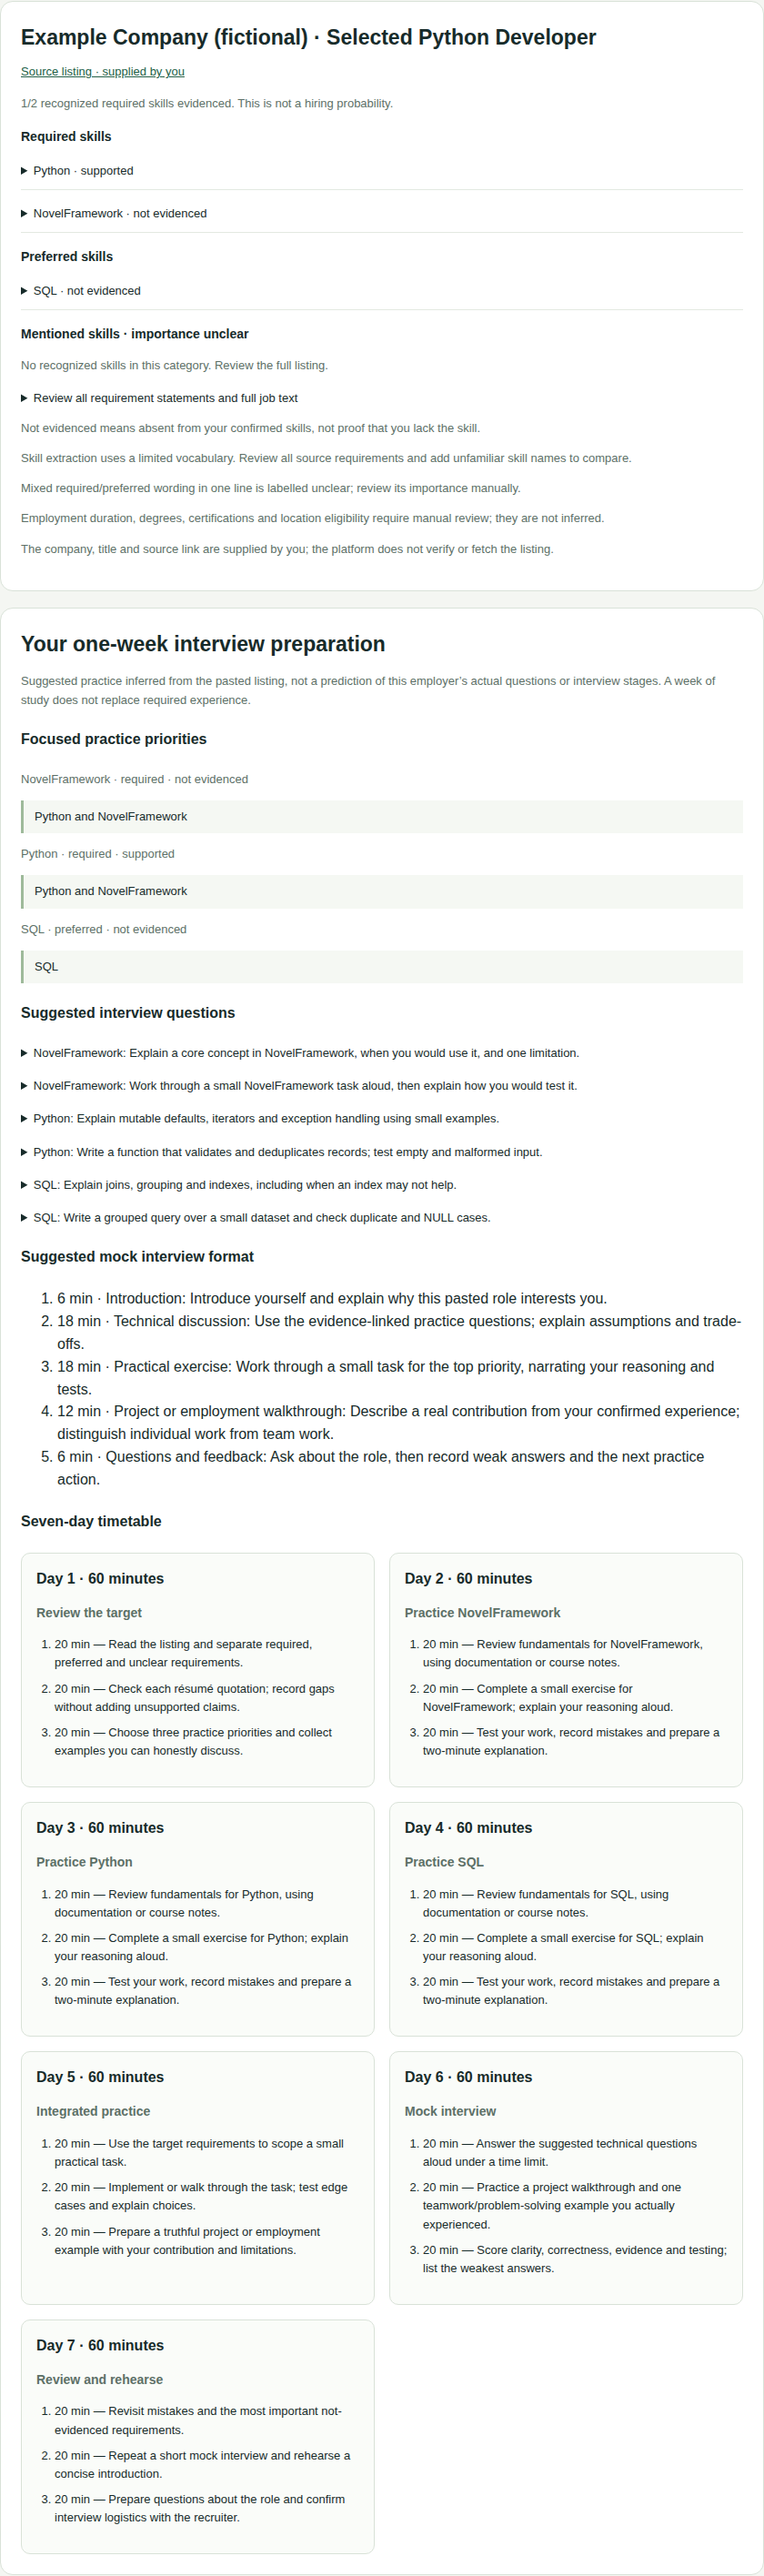
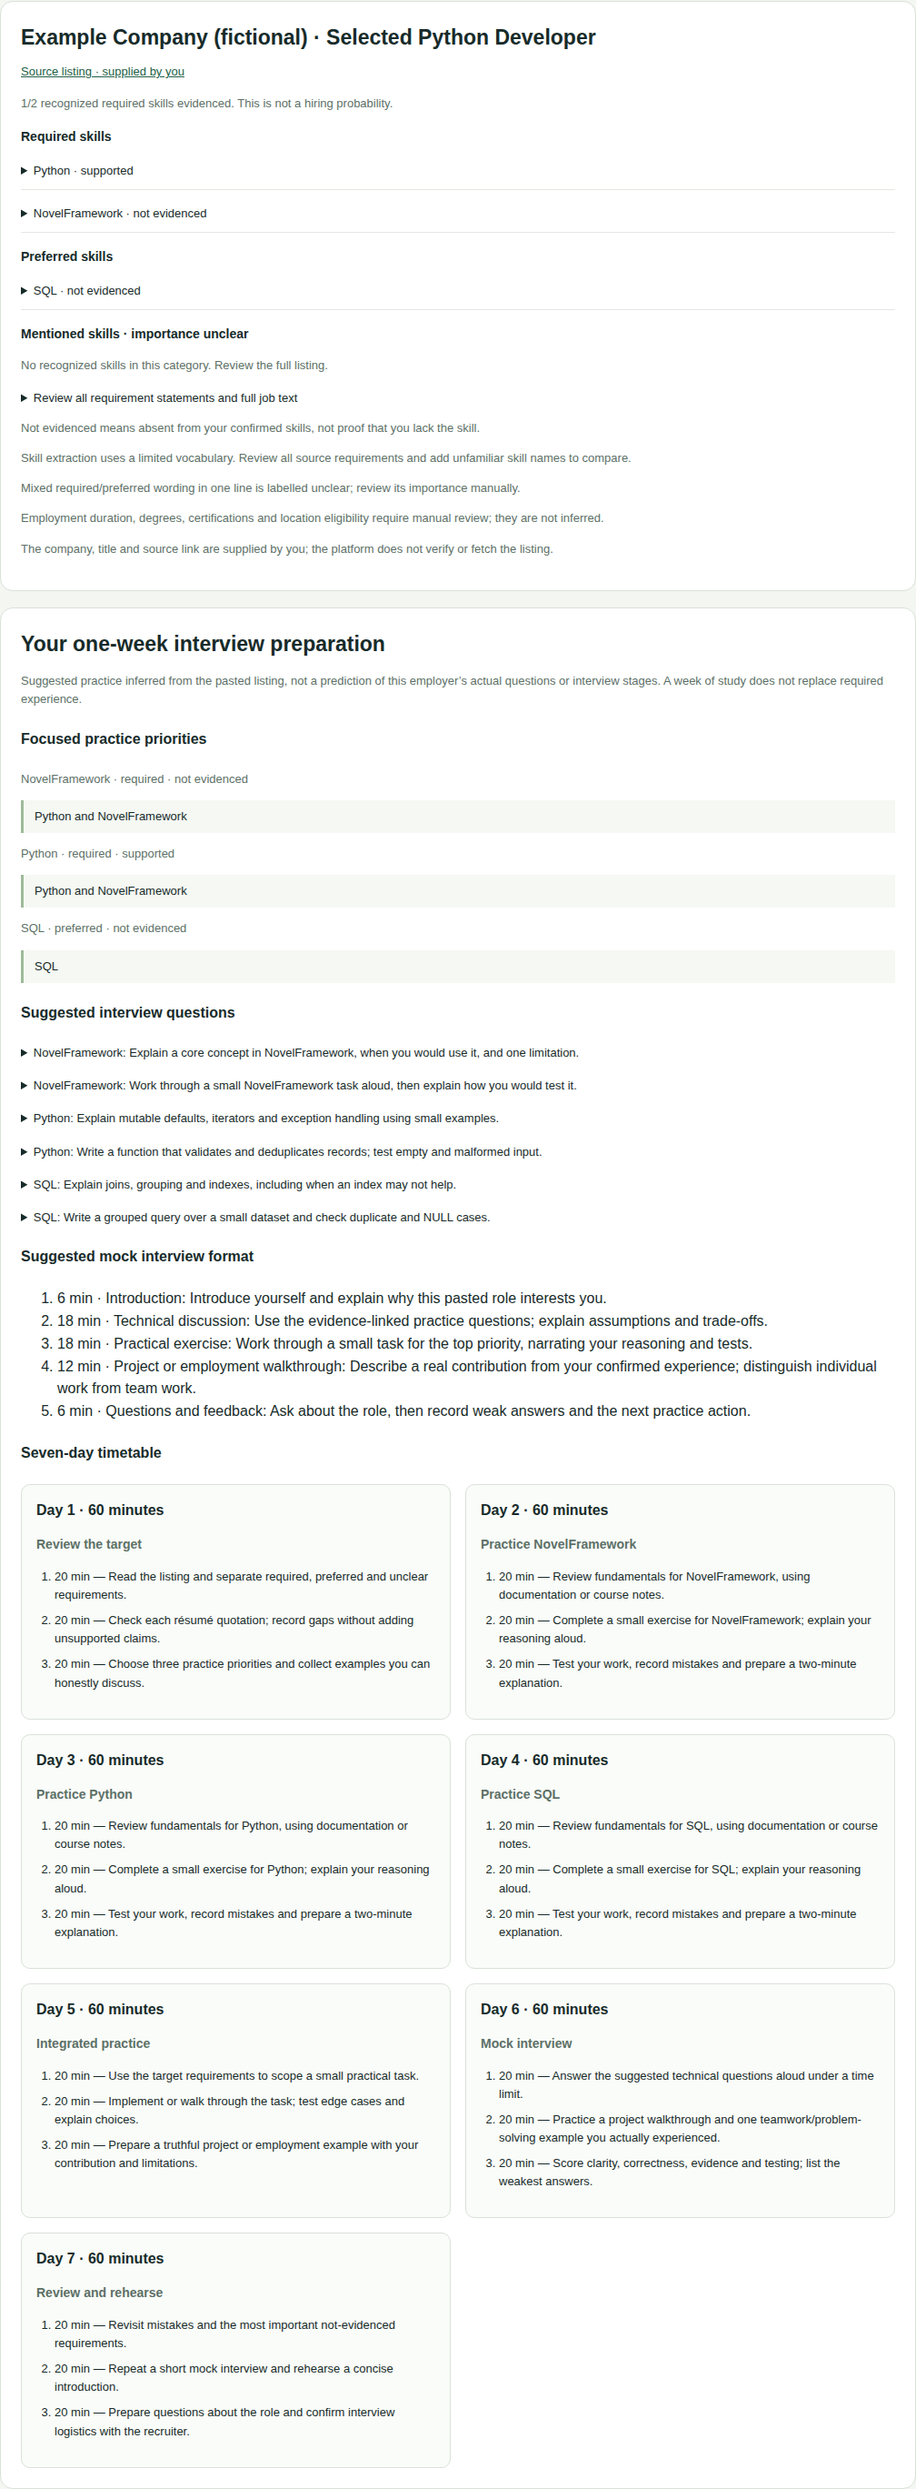
Add plain user guide and verified simplified-flow screenshots

Changed region(s): [[0.0, 0.0, 0.9905, 1.0]]

diff --git a/web/style.css b/web/style.css
@@ -3,3 +3,5 @@
 .target-fields,.week-grid{display:grid;grid-template-columns:1fr 1fr;gap:16px}.target-panel p{font-size:14px}.day-card{border:1px solid #d9e2d8;border-radius:10px;padding:16px;background:#fafcf9}.day-card h4{margin:0 0 8px}.day-card p{font-weight:600;font-size:14px}.day-card ol{padding-left:20px;font-size:13px}.day-card li{margin:8px 0}.skill-proof{border-bottom:1px solid #e3e9e1;padding-bottom:10px}.interview-plan h3{font-size:23px}.target-comparison a{display:inline-block;margin-top:10px}@media(max-width:1000px){.target-fields,.week-grid{grid-template-columns:1fr}}
 
 [hidden]{display:none!important}.flow-tabs{display:flex;gap:12px;margin-bottom:24px}.flow-tabs button{width:auto}.flow-tabs .active{background:#225f47;color:white}.intro{max-width:900px;padding:24px 0}.intro h1{font-size:clamp(30px,4vw,48px)}main{max-width:1080px}#editor>details{margin:16px 0}.optional{margin:14px 0}.optional>summary,#profile-fields>summary{font-weight:650;padding:10px 0}.target-panel,#demo-flow>.panel{margin-top:20px}@media(max-width:650px){.flow-tabs{flex-direction:column}.flow-tabs button{width:100%}}
+
+.flow-tabs button:not(.active){background:#eef2ec;color:#344e42}

diff --git a/web/app.js b/web/app.js
@@ -14,6 +14,8 @@ async function action(button, operation) {
   } finally { button.textContent = label; button.disabled = false; updateReadiness(); }
 }
 function updateReadiness() {
+  $('pdf').disabled = Boolean(profileId);
+  $('upload').disabled = Boolean(profileId);
   $('compare-target').disabled = !profileReviewed;
   $('search').disabled = profileId ? !profileReviewed : !$('query').value.trim();
 }

diff --git a/README.md b/README.md
@@ -2,11 +2,13 @@
 
 An incremental Python project that will retrieve jobs for an editable résumé profile, compare keyword and semantic ranking, and explain strengths and gaps using source evidence. Match scores are ranking signals, never probabilities of getting hired.
 
-## Current status: Steps 1–8 implemented; human evaluation and public deployment remain
+## Current status: Steps 1–9 implemented; human evaluation and public deployment remain
 
 The working sample provides TF-IDF retrieval, local PDF profiles, semantic retrieval, cross-encoder reranking, explicit constraints, a FastAPI evidence interface, permitted manual ingestion, optional PostgreSQL/pgvector storage, Docker packaging and CI. The 12 fictional jobs and three fictional profiles form 36 provisional evaluation pairs; human label review and public-release validation remain.
 
 GitHub repository: [Raimal-Raja/jobmatch-ml-platform](https://github.com/Raimal-Raja/jobmatch-ml-platform).
+
+Start with the [short user guide](docs/user-guide.md). The default task is to compare your résumé with a job description you paste. Sample-catalog search is a separate demonstration tab.
 
 ## Step 8: compare your chosen job and prepare for interviews
 
@@ -15,6 +17,8 @@ GitHub repository: [Raimal-Raja/jobmatch-ml-platform](https://github.com/Raimal-
 The app opens on **Compare a job**: (1) upload/review/confirm the résumé, (2) paste the selected title/company/description, (3) compare and read the preparation plan. Confirmed profile fields collapse under **Review or edit extracted information**. Optional inputs stay collapsed. Sample-catalog search has its own **Try sample-job search** tab and a **Search sample jobs** button, explicitly identifying its 12 fictional listings. It does not search Indeed or the web.
 
 Comparison is disabled until the profile is confirmed; unsaved edits require reconfirmation. The API also rejects partially confirmed profiles instead of silently searching a subset of fields. Buttons display **Working…**, and errors appear beside the action that failed. Validation: 34 local tests passed with five optional model/database tests skipped, including the partial-confirmation regression; browser CI checks the primary flow, tab switching, confirmation gating, sample search and selected-job comparison.
+
+The [Application checks](https://github.com/Raimal-Raja/jobmatch-ml-platform/actions/runs/37758398877) and [model-enabled benchmark/tests](https://github.com/Raimal-Raja/jobmatch-ml-platform/actions/runs/37758398828) passed at implementation commit `80febe0`. A local sample search with a confirmed profile returned five results. The default comparison workflow and the sample search remain separate tasks.
 
 The catalog search ranks 12 fictional listings and displays the top five by default. **Compare the job you choose** instead analyzes the specific title, company and full description you paste from a listing. Supply an optional source link, job location/work mode, unfamiliar skill names and a daily preparation budget (15–240 minutes). Confirm the résumé first, then click **Compare this job & prepare my week**. A link alone does not import the listing, and no job-board scraping is implemented. The pasted job is analyzed locally for this request; it is not added to training/evaluation data or the catalog.
 
@@ -155,6 +159,7 @@ Each step ends with a working sample, relevant verification and a README update 
 | 6 | PostgreSQL/pgvector, ingestion, Docker and CI | Permitted provenance, validation, duplicate controls, privacy and integration checks | Implemented; Docker/database CI passed |
 | 7 | Review workflow, MLflow, architecture and demo materials | Human review and deployment validation before public release | Release materials implemented; human review/public deployment pending |
 | 8 | User-selected job comparison and weekly interview preparation | Exact listing evidence, gaps, manual qualification review, practice questions and seven-day budget | Implemented; API and browser CI passed |
+| 9 | Simplified user workflow and confirmation handling | Separate task tabs, clear feedback, no searches on partially confirmed profiles | Implemented; browser and API verification passed |
 
 The six-week proposal guides scheduling; these seven implementation checkpoints keep individual changes reviewable. Human review should start now and expand throughout the build. Future model selection must use development data separate from the final evaluation set.
 

diff --git a/docs/user-guide.md b/docs/user-guide.md
@@ -1,0 +1,27 @@
+# Using JobMatch
+
+JobMatch compares your résumé with a job you choose. It shows supporting evidence, requirements to review, and a one-week interview practice plan.
+
+## Compare a real job
+
+1. Open the local app at `http://127.0.0.1:8000/` and keep **Compare a job** selected.
+2. Upload a PDF and click **Extract résumé**. Review skills, experience and education, then click **Confirm corrected profile**. If your profile is already confirmed, skip uploading it again. Use **Review or edit extracted information** for corrections.
+3. Enter the job title and company, and paste the **full job description** from the listing. A source link alone does not import the description.
+4. Click **Compare my résumé with this job**. Results appear below the form.
+
+**Supported** means a confirmed skill entry provides evidence. **Not evidenced** means the confirmed profile does not support that requirement; check whether you should correct your profile or learn the skill. Requirements involving degrees, experience duration, eligibility or unclear wording need your review.
+
+The interview section suggests practice questions, a mock-interview agenda and seven preparation days. Open **Optional preferences and preparation time** to change the default 90 minutes per day. It is a practice plan, not a prediction of the company's actual interview.
+
+## Try the demonstration search
+
+The separate **Try sample-job search** tab searches 12 fictional listings and shows the top five. It does not search Indeed, Google or other live job sites. Enter search terms or use a confirmed profile, then click **Search sample jobs**. Keyword mode starts fastest; model modes can take longer on the first request.
+
+## If a button is disabled or something fails
+
+- Confirm the résumé first. Editing its fields disables comparison until you save and confirm again.
+- Supply a title, company and full description for job comparison.
+- While a request runs, its button says **Working…**. Errors appear beside the relevant action.
+- If the app cannot connect, start the local server using the README instructions and refresh the page.
+
+The résumé is stored locally. **Delete stored résumé & profile** removes its stored copy and clears derived comparisons; your original PDF is unchanged.
